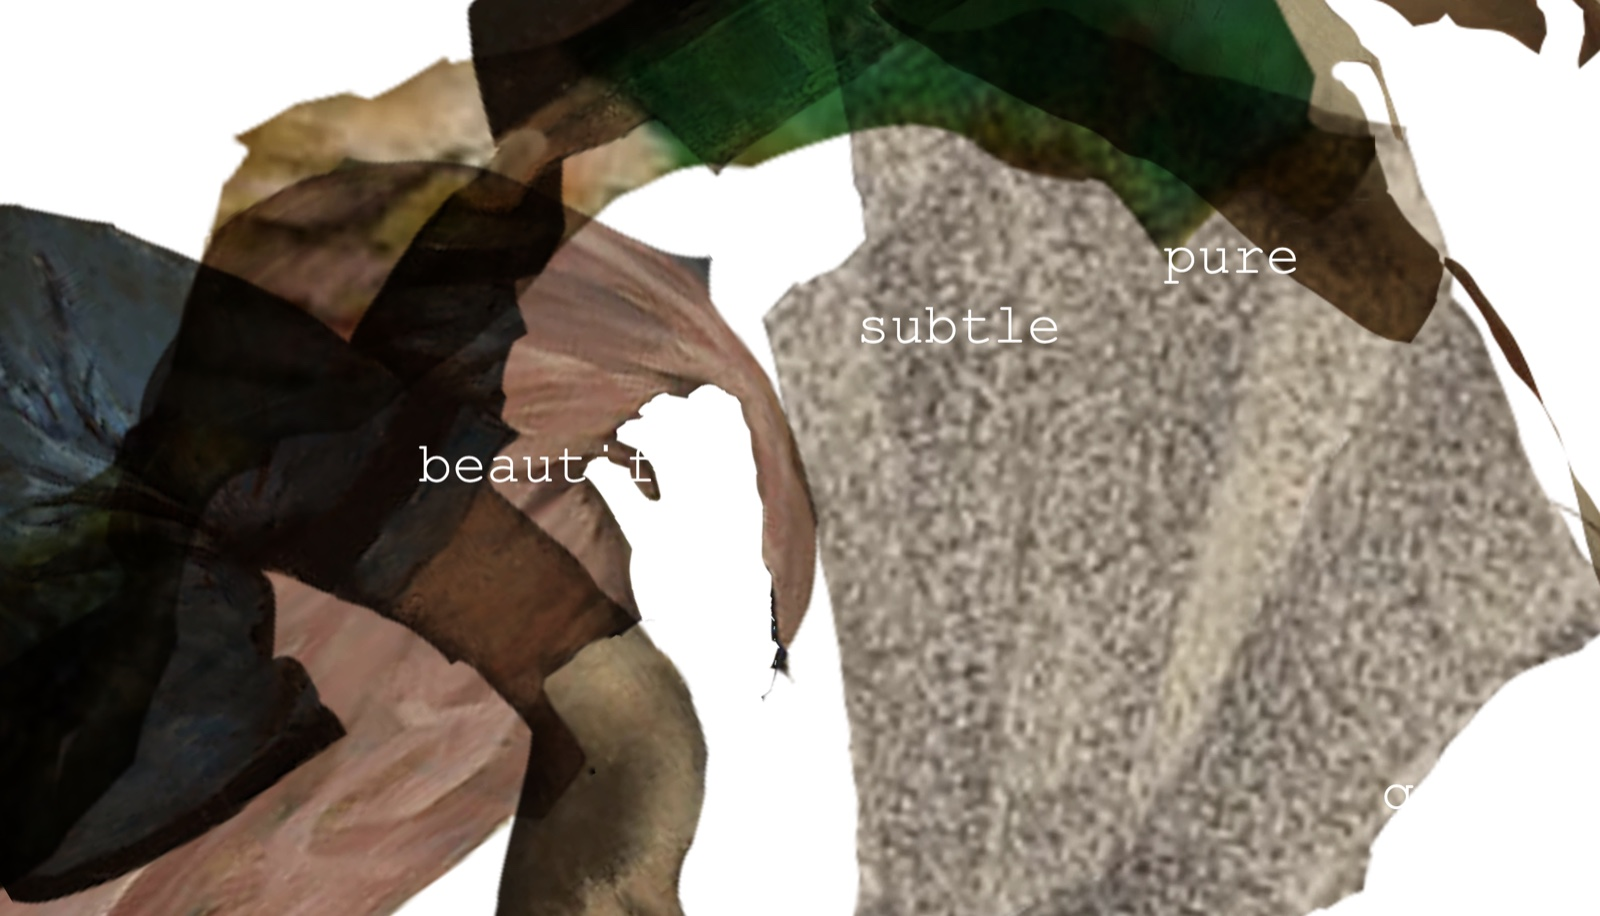
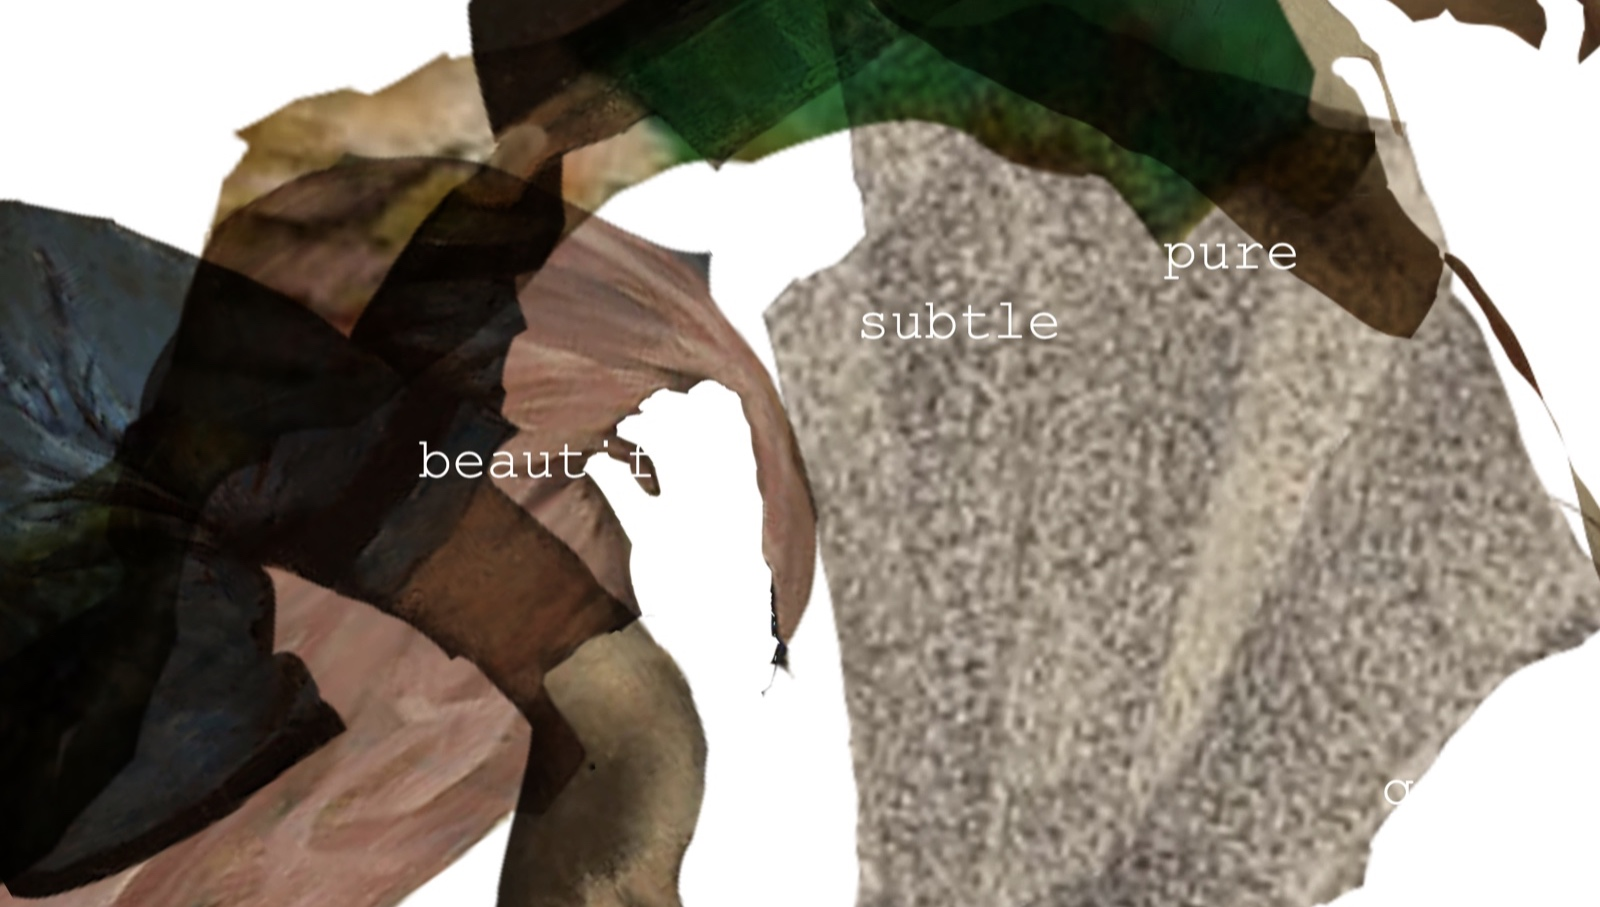
arrows

diff --git a/otherprojects.html b/otherprojects.html
@@ -22,13 +22,29 @@
         transform: translateY(-50%);
         width: 44px;
         height: 44px;
+        padding: 0;
         border: 0;
         border-radius: 50%;
         background: rgba(232, 232, 232, 0.9);
         color: #111;
-        font-size: 1.5rem;
         cursor: pointer;
       }
+
+      .holding-gallery button:not([hidden]) {
+        display: grid;
+        place-items: center;
+      }
+
+      .holding-gallery button::before {
+        content: "";
+        width: 24px;
+        height: 18px;
+        background: #000;
+        -webkit-mask: url("images/arrow-right-straight.svg") center / contain no-repeat;
+        mask: url("images/arrow-right-straight.svg") center / contain no-repeat;
+      }
+
+      .holding-gallery button:first-of-type::before { transform: scaleX(-1); }
 
       .holding-gallery button:first-of-type { left: 8px; }
       .holding-gallery button:last-of-type { right: 8px; }
@@ -54,10 +70,10 @@
 
       <div class="holding-gallery" role="group" aria-label="holding screenshots">
         <div aria-live="polite">
-          <img decoding="async" class="slide" alt="holding screenshot 1 of 3" src="images/otherprojects/holding-screenshot3-web.jpg" width="1600" height="917">
+          <img decoding="async" class="slide" alt="holding screenshot 1 of 3" src="images/otherprojects/holding-screenshot3-web.jpg?v=907" width="1600" height="907">
         </div>
-        <button type="button" aria-label="Previous holding screenshot" data-step="-1" hidden>←</button>
-        <button type="button" aria-label="Next holding screenshot" data-step="1" hidden>→</button>
+        <button type="button" aria-label="Previous holding screenshot" data-step="-1" hidden></button>
+        <button type="button" aria-label="Next holding screenshot" data-step="1" hidden></button>
       </div>
       <div class="caption2">
         <a href="https://www.mesparks.com/holding/" style="color: blue; text-decoration: underline;"><em>holding</em></a>, 2025, is part of a series of browser-based works exploring quotation, collage, and language. Images of hands holding objects, drawn from historical paintings in The Metropolitan Museum of Art’s online collection, slowly float across the screen. The accompanying words are sourced from recurring descriptors of the women depicted in these paintings. The work was presented on a phone screen as part of the group exhibition <a href="touchy.html" style="color: blue; text-decoration: underline;"><em>Touchy</em></a>, 2025.
@@ -136,9 +152,9 @@
       const holdingGallery = document.querySelector('.holding-gallery');
       const holdingImage = holdingGallery.querySelector('img');
       const holdingScreenshots = [
-        { file: 'holding-screenshot3-web.jpg', height: 917 },
-        { file: 'holding-screenshot4-web.jpg?v=top-trimmed', height: 911 },
-        { file: 'holding-screenshot2-web.jpg', height: 916 },
+        { file: 'holding-screenshot3-web.jpg?v=907', height: 907 },
+        { file: 'holding-screenshot4-web.jpg?v=907', height: 907 },
+        { file: 'holding-screenshot2-web.jpg?v=907', height: 907 },
       ];
       let holdingIndex = 0;
 
